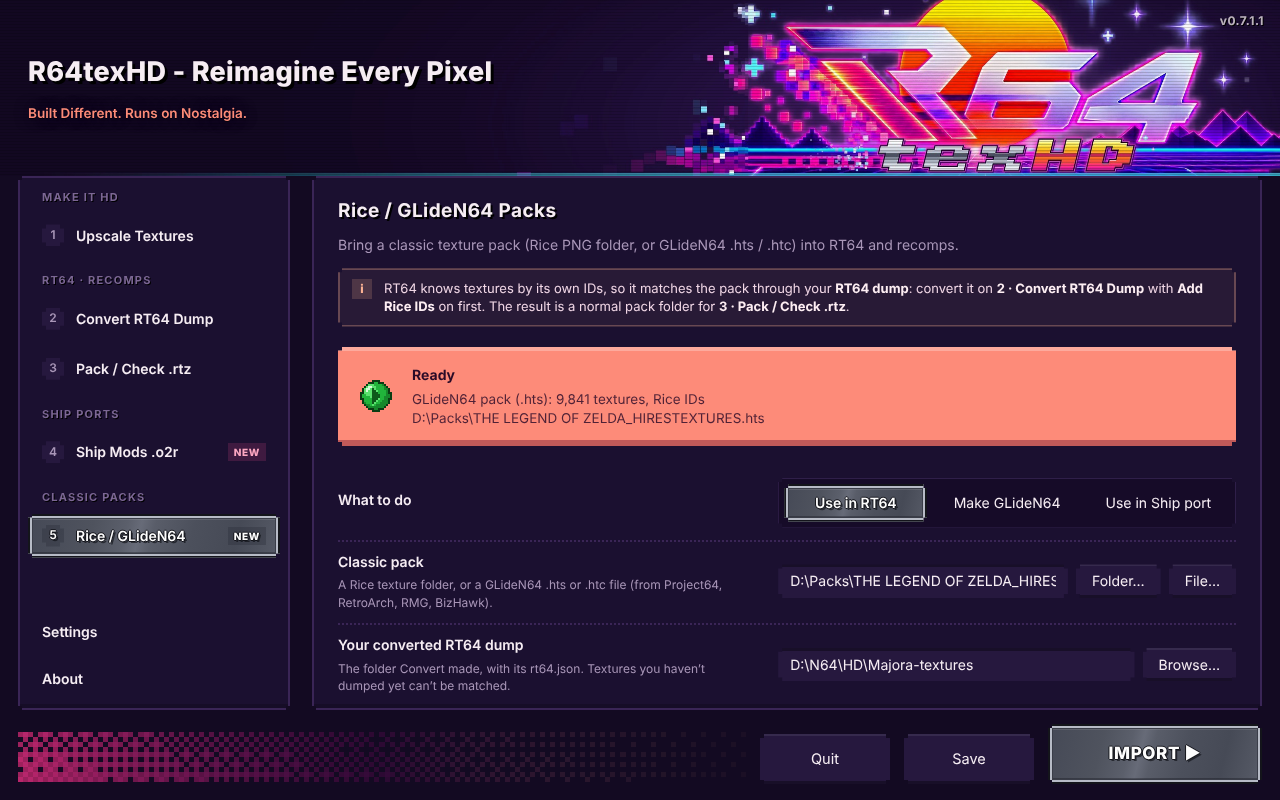
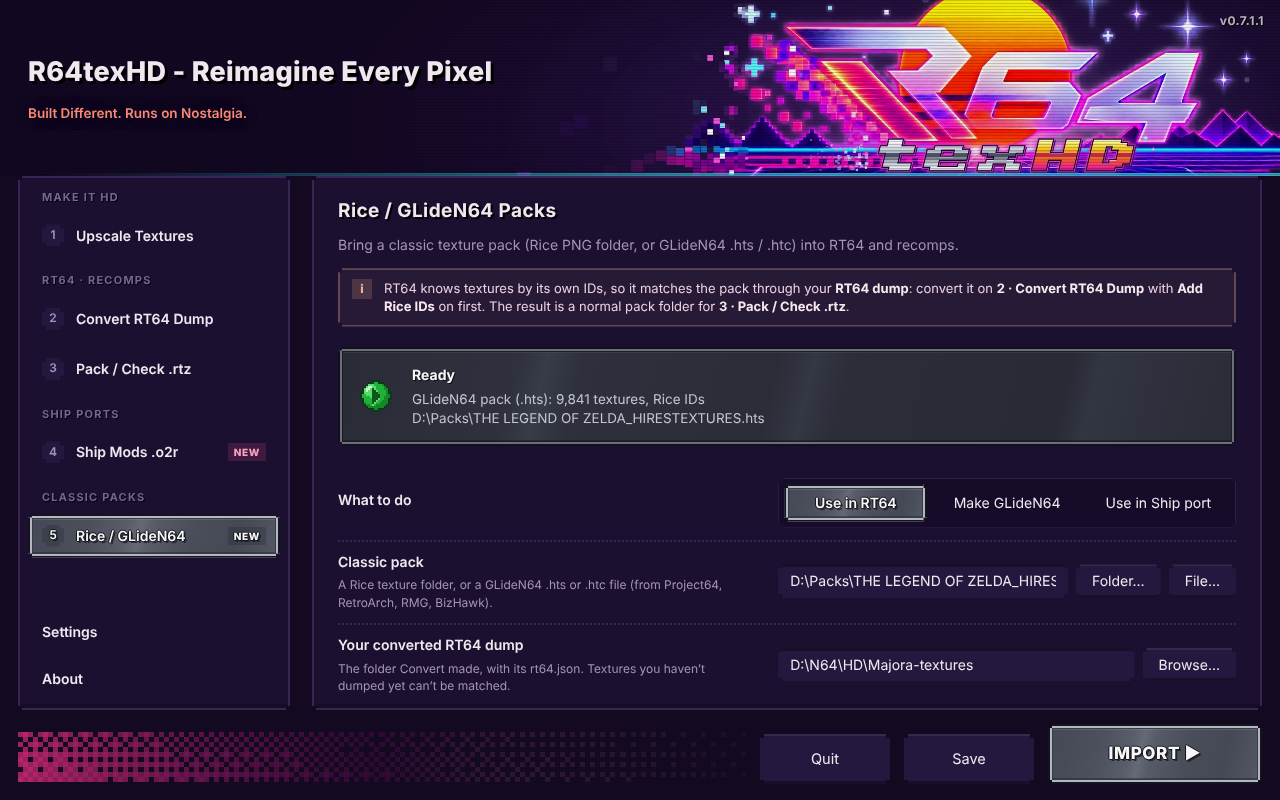
Info boxes: gunmetal plates instead of peach
The Ready / working / Done status cards and notices (like Download the
helper tools) are dark gunmetal plates in the same pixel-metal style as
the buttons, a few shades darker so silver buttons stand out on them:
light text, a dim inner rim, darker plain buttons, and a silver segmented
progress bar. Grey (choose) and red (problem) cards are unchanged.
README screenshots refreshed.

Claude-Session: https://claude.ai/code/session_01MGmgufkY67hNwJ4dKZUjyJ

Changed region(s): [[0.25, 0.4062, 0.9688, 0.5625]]

diff --git a/app/ui/index.html b/app/ui/index.html
@@ -361,6 +361,28 @@ nav button.active:hover, .seg button.on:hover, .btn.primary:hover, .go:not(.canc
 .go:not(.cancel) { font-size: 17px; }
 .btn.primary:disabled { filter: grayscale(.3) brightness(.85); }
 @media (prefers-reduced-motion: reduce) { nav button.active::after, .seg button.on::after, .btn.primary::after, .go::after { animation: none !important; } }
+
+/* ================================================================ gunmetal info boxes
+   Status cards (Ready, working, Done) and notices are dark gunmetal plates in the same pixel-metal
+   style as the buttons, a few shades darker so the silver buttons on them still stand out. */
+.card:not(.idle):not(.error), .card.notice {
+  background: linear-gradient(104deg, #2b2d37 0%, #31343f 20%, #3a3d49 23%, #30333e 27%, #2c2e38 48%, #363945 52%, #2d2f39 56%, #2a2c36 80%, #343743 83%, #2b2d37 100%) !important;
+  color: #f4f5f8 !important;
+  box-shadow: inset 0 0 0 2px #121319, inset 0 0 0 4px #6e7280, inset 0 0 0 5px #1c1d24,
+              inset 0 6px 0 0 rgba(255,255,255,.06), inset 0 -6px 0 0 rgba(0,0,0,.28) !important;
+  border: 0 !important;
+}
+.card:not(.idle):not(.error) .t { color: #ffffff; text-shadow: 1px 1px 0 #0d0e13; }
+.card:not(.idle):not(.error) .p, .card.notice .p { color: #c9ccd6 !important; }
+.card.notice ul { color: #dcdee6 !important; }
+.card:not(.idle):not(.error) .tool { color: #aeb2bf !important; }
+/* plain buttons on the plate */
+.card:not(.idle):not(.error) .btn:not(.primary) { background: #3c3f4b !important; color: #f4f5f8 !important; font-weight: 600;
+  box-shadow: inset 0 0 0 2px #15161c, inset 0 2px 0 2px rgba(255,255,255,.08), inset 0 -3px 0 1px rgba(0,0,0,.35) !important; }
+.card:not(.idle):not(.error) .btn:not(.primary):hover { background: #474a57 !important; }
+/* progress bar: silver segments in a dark slot */
+.card:not(.idle):not(.error) .bar { background: #15161c !important; box-shadow: inset 0 0 0 2px #0d0e13 !important; }
+.card:not(.idle):not(.error) .bar i { background: repeating-linear-gradient(90deg, #b9bdc8 0 8px, transparent 8px 10px) !important; }
 </style>
 </head>
 <body>
